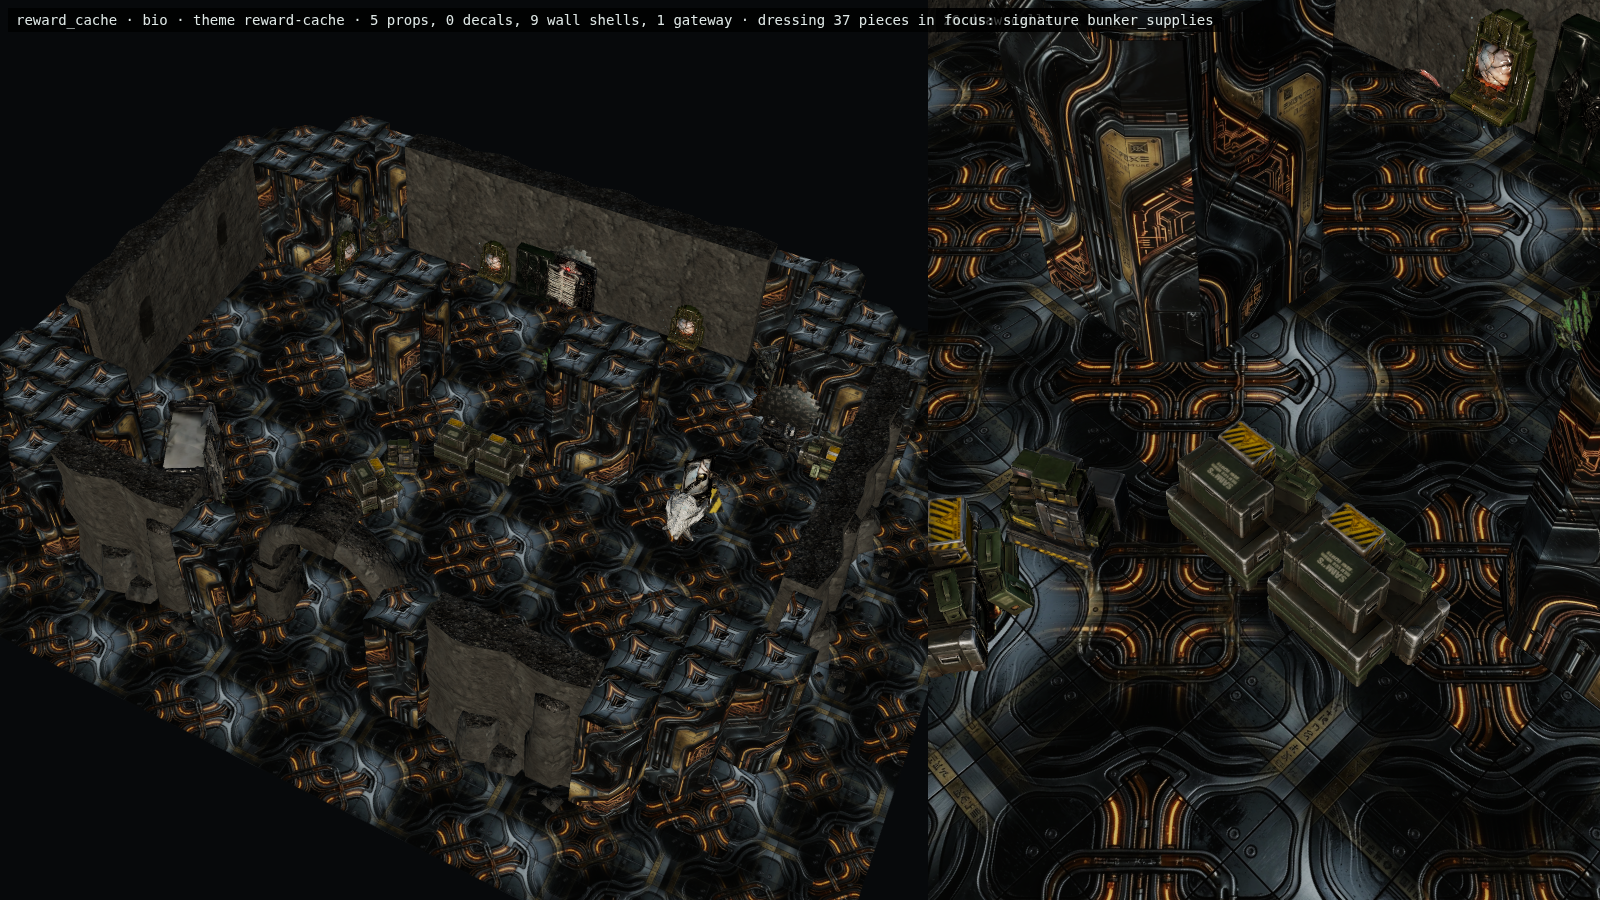
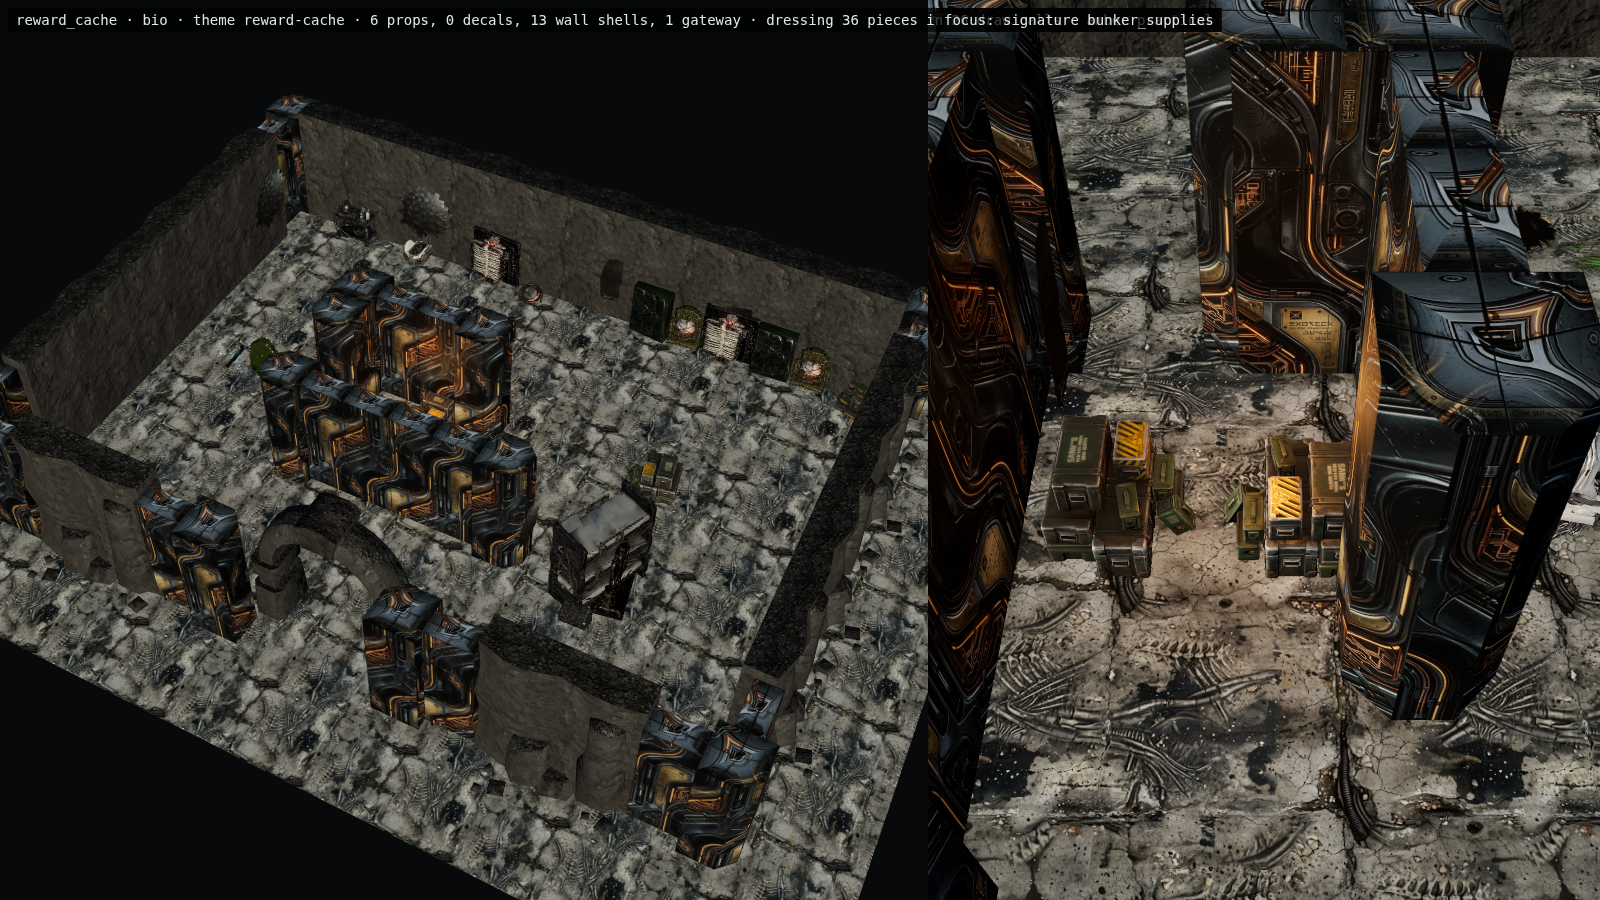
feat(levels): screen the reward cache behind a broken C so it is revealed by a turn
Lane A P2, third proof (work by the Codex lane, left uncommitted when it
ran out of credits; reviewed and committed as it stood). reward_cache is
rebuilt around a broken C-shaped screen: the cache is hidden from the
south threshold, reached by two unequal permanent approaches, and owns a
restrained amber practical, with a quiet provenance-log alcove on the west
route. Authored supply/ammo/locker anchors no longer get a redundant
generic ammo pile. Four gameplay-camera captures and exact two-route tests;
both N64 design docs updated, including what remains controller work
(opening animation, payout and light sync, persistent emptied state).

diff --git a/src/data/roomBuilds.js b/src/data/roomBuilds.js
@@ -384,15 +384,21 @@ export const ROOM_BUILD_CATALOG = Object.freeze([
         family: 'cache',
         themeStyle: 'reliquary',
         partitionThickness: 0.5,
-        // The reward vault is a floor-standing interactive prop framed by
-        // sanctuary plinths and corner chamfers.
-        pattern: rectRoomPattern(15, 11, [
-            { x: 0, y: 0, w: 2, h: 2 },
-            { x: 13, y: 0, w: 2, h: 2 },
-            { x: 0, y: 9, w: 2, h: 2 },
-            { x: 13, y: 9, w: 2, h: 2 },
-            { x: 4, y: 3, w: 2, h: 2 },
-            { x: 9, y: 3, w: 2, h: 2 }
+        // P2 reward-space proof: a broken C-shaped screen blocks the cache
+        // body from the south entry while leaving distinct east and west
+        // approaches. The reward appears only after a lateral turn.
+        pattern: authoredRoomPattern([
+            '...............',
+            '...............',
+            '...............',
+            '...............',
+            '....####.......',
+            '....#..........',
+            '...............',
+            '....######.....',
+            '...............',
+            '...............',
+            '...............'
         ]),
         sockets: [{ id: 'entry', side: 's', width: 3, required: true }],
         rotationPolicy: 'cardinal',
@@ -400,15 +406,23 @@ export const ROOM_BUILD_CATALOG = Object.freeze([
         biomeEligibility: ['active', 'cryo', 'bio'],
         roles: ['reward'],
         structuralAnchors: [],
-        interactionAnchors: [{ id: 'reward_vault', type: 'prop_bunker_supplies', x: 7, y: 5 }],
+        interactionAnchors: [{ id: 'reward_vault', type: 'prop_bunker_supplies', x: 6, y: 5 }],
         signatureAnchorId: 'reward_vault',
         compassAnchors: { approach: 'entry', objective: 'reward_vault' },
-        coverZones: [{ x: 4, y: 3, w: 2, h: 2 }, { x: 9, y: 3, w: 2, h: 2 }],
+        coverZones: [
+            { x: 4, y: 4, w: 4, h: 1 },
+            { x: 4, y: 4, w: 1, h: 2 },
+            { x: 4, y: 7, w: 6, h: 1 }
+        ],
         encounterZones: [],
-        rewardAnchors: [{ id: 'reward_vault', type: 'prop_bunker_supplies', x: 7, y: 5 }],
-        loreAnchors: [],
+        rewardAnchors: [{ id: 'reward_vault', type: 'prop_bunker_supplies', x: 6, y: 5 }],
+        loreAnchors: [{ id: 'cache_provenance_log', type: 'lore_terminal', x: 2, y: 5 }],
         hazardZones: [],
-        quietZones: [{ x: 0, y: 0, w: 15, h: 11 }],
+        quietZones: [
+            { x: 4, y: 8, w: 7, h: 3 },
+            { x: 5, y: 4, w: 4, h: 3 },
+            { x: 1, y: 4, w: 3, h: 3 }
+        ],
         safeZone: true,
         containmentBounds: { minX: 0, minY: 0, maxX: 14, maxY: 10 },
         presentationVariants: ['locked', 'unlocked', 'emptied'],

diff --git a/src/roomBuilds.test.js b/src/roomBuilds.test.js
@@ -291,6 +291,38 @@ describe('ROOM_BUILD_CATALOG', () => {
         expect(build.quietZones[1]).toMatchObject({ x: 0, y: 3, w: 4, h: 6 });
     });
 
+    it('turns the reward cache into a screened two-route reveal', () => {
+        const build = ROOM_BUILD_CATALOG.find((entry) => entry.id === 'reward_cache');
+        expect(build.pattern).toEqual([
+            '...............',
+            '...............',
+            '...............',
+            '...............',
+            '....####.......',
+            '....#..........',
+            '...............',
+            '....######.....',
+            '...............',
+            '...............',
+            '...............'
+        ]);
+        const approach = computeApproachPoint(build);
+        const vault = { x: 6, y: 5 };
+        const westScreen = new Set(['0,7', '1,7', '2,7', '3,7']);
+        const eastScreen = new Set(['10,7', '11,7', '12,7', '13,7', '14,7']);
+        expect(approach).toEqual({ x: 7, y: 8 });
+        expect(build.pattern[7][approach.x]).toBe('#');
+        expect(shortestPatternPath(build.pattern, approach, vault, westScreen)).toBeLessThan(Infinity);
+        expect(shortestPatternPath(build.pattern, approach, vault, eastScreen)).toBeLessThan(Infinity);
+        expect(shortestPatternPath(build.pattern, approach, vault)).toBeGreaterThan(
+            Math.abs(approach.x - vault.x) + Math.abs(approach.y - vault.y)
+        );
+        expect(build.interactionAnchors[0]).toMatchObject({ id: 'reward_vault', x: 6, y: 5 });
+        expect(build.rewardAnchors[0]).toMatchObject({ id: 'reward_vault', x: 6, y: 5 });
+        expect(build.loreAnchors[0]).toMatchObject({ id: 'cache_provenance_log', x: 2, y: 5 });
+        expect(shortestPatternPath(build.pattern, vault, { x: 2, y: 5 })).toBeLessThan(Infinity);
+    });
+
     it.each(ROOM_BUILD_CATALOG.map((build) => [build.id, build]))('%s is internally valid', (_, build) => {
         expect(validateRoomBuild(build)).toEqual([]);
     });

diff --git a/src/roomPopulation.test.js b/src/roomPopulation.test.js
@@ -318,6 +318,25 @@ describe('room population', () => {
         }
     });
 
+    it('does not duplicate an authored supply vault with a generic ammo cache', () => {
+        const grid = Array.from({ length: 7 }, () => Array(9).fill('.'));
+        const room = {
+            id: 'authored-reward',
+            role: 'reward',
+            interior: Array.from({ length: 7 }, (_, index) => ({ x: index + 1, y: 3 })),
+            navigation: { doorLanes: [] },
+            interactionAnchors: [{ id: 'reward_vault', type: 'prop_bunker_supplies', x: 4, y: 3 }],
+            signatureAnchorId: 'reward_vault',
+            populationBudget: { signature: 1, large: 0, small: 0, pickup: 0, enemy: 0 },
+            themeConfig: { signatureProps: ['prop_bunker_supplies'] }
+        };
+        const plan = planRoomPopulation(room, grid, () => 0);
+        expect(plan.placements.filter((placement) => placement.type === 'prop_bunker_supplies')).toEqual([
+            expect.objectContaining({ anchorId: 'reward_vault', kind: 'signature', x: 4, y: 3 })
+        ]);
+        expect(plan.placements.some((placement) => placement.kind === 'ammo-cache')).toBe(false);
+    });
+
     it('restricts wall-backed props (altars, cradles) to cells adjacent to walls with wallNormal', () => {
         const room = {
             id: 'altar-room',

diff --git a/tests/e2e/probes/p2-reward-cache-gameplay-camera.spec.js b/tests/e2e/probes/p2-reward-cache-gameplay-camera.spec.js
@@ -1,0 +1,20 @@
+import { test, expect } from '@playwright/test';
+
+// P2 reward-space proof: the entry screen must conceal the cache body while
+// both approaches, the reward apse and optional lore alcove remain legible in
+// every cardinal camera rotation.
+for (let rotation = 0; rotation < 4; rotation += 1) {
+    test(`P2 reward cache game camera — R${rotation}`, async ({ page }) => {
+        await page.setViewportSize({ width: 1600, height: 900 });
+        await page.goto(`/tests/e2e/fixtures/furnished-room-showroom.html?build=reward_cache&biome=active&review=gameplay&rotation=${rotation}`);
+        await page.waitForFunction(() => window.__showroom?.ready === true, null, { timeout: 90_000 });
+        const result = await page.evaluate(() => window.__showroom);
+        expect(result.reviewMode).toBe(true);
+        expect(result.rotation).toBe(rotation);
+        expect(result.cutawayCells).toBeGreaterThan(0);
+        expect(result.props + result.decals).toBeGreaterThan(0);
+        await page.screenshot({
+            path: `docs/reports/assets/furnished-rooms/p2-reward_cache-game-camera-r${rotation}.png`
+        });
+    });
+}

diff --git a/src/anchorPracticalLight.js b/src/anchorPracticalLight.js
@@ -21,7 +21,7 @@ export const ANCHOR_LIGHT_PALETTE = Object.freeze({
 const PALETTE_RULES = Object.freeze([
     { palette: 'cyan', match: /oxygen|coolant|cryo|o2_|frost|icey|thermal|water_still|medical_bed|tesla_coil|fabricator|cyber_junction/ },
     { palette: 'warning', match: /false_cache|laser_trap|trap_emitter/ },
-    { palette: 'amber', match: /lectern|votive|shrine|reliquary|saint|liturgical|candle|barrel_heater|flood_lamp|pheromone_censer|scent_distiller|warmth_hearth|checkpoint_post|wayfinding_totem|seismic_drill|devotion_tree|meat_smoking_rack|pipe_organ_heat_exchanger|ammo_crate/ },
+    { palette: 'amber', match: /reward_vault|lectern|votive|shrine|reliquary|saint|liturgical|candle|barrel_heater|flood_lamp|pheromone_censer|scent_distiller|warmth_hearth|checkpoint_post|wayfinding_totem|seismic_drill|devotion_tree|meat_smoking_rack|pipe_organ_heat_exchanger|ammo_crate/ },
     { palette: 'green', match: /biomech|spore|fungal|hive|flesh|umbilical|alien|incubator|mycelium/ }
 ]);
 

diff --git a/src/roomPopulation.js b/src/roomPopulation.js
@@ -393,8 +393,12 @@ export function planRoomPopulation(room, grid, random, { grounding = true, areaB
         if (budget.signature > 0 && !hasAuthoredSignature) {
             reservePlacement('signature', propFrom(theme.signatureProps, random, 'prop_bunker_supplies', { placements, recentModels }), true);
         }
+        const hasAuthoredSupplyCache = placements.some((placement) => (
+            placement.anchorId
+            && /supplies|ammo_crate|locker/.test(String(placement.type ?? ''))
+        ));
         if (['reward', 'storage', 'security'].includes(room.role)) {
-            reservePlacement('ammo-cache', 'prop_bunker_supplies', true);
+            if (!hasAuthoredSupplyCache) reservePlacement('ammo-cache', 'prop_bunker_supplies', true);
         } else if (budget.large.min > 0 && theme.largeProps?.length) {
             reservePlacement('large', propFrom(theme.largeProps, random, 'prop_conduit_hub', { placements, recentModels }), true);
         }

diff --git a/src/anchorPracticalLight.test.js b/src/anchorPracticalLight.test.js
@@ -16,6 +16,7 @@ describe('anchor practical light (lived-in world M4)', () => {
         expect(anchorPaletteFor('prop_cyber_junction')).toBe('cyan');
         expect(anchorPaletteFor('false_cache prop_bunker_supplies')).toBe('warning');
         expect(anchorPaletteFor('prop_laser_trap_emitter')).toBe('warning');
+        expect(anchorPaletteFor('reward_vault prop_bunker_supplies')).toBe('amber');
         expect(anchorPaletteFor('prop_pipe_organ_heat_exchanger')).toBe('amber');
         expect(anchorPaletteFor('prop_ammo_crate_stack')).toBe('amber');
         expect(anchorPaletteFor('life_barrel_heater')).toBe('amber');

diff --git a/docs/planning/n64-architectural-level-design-overhaul-2026-10-10.md b/docs/planning/n64-architectural-level-design-overhaul-2026-10-10.md
@@ -740,10 +740,32 @@ Capability correction: this is spatial and presentation scaffolding, not a funct
 The false cache is still a normal supplies interaction, `trap_trigger` affects enemy placement only,
 the spore-vent hazard has no room-level damage consumer, and the payoff is available immediately.
 A future local controller must own arming, beam timing, warning lights/audio, disarm/reset, and
-reward locking. Animation and VFX remain bounded and non-colliding; neither route may close. Next
-P2 candidate: `reward_cache`.
+reward locking. Animation and VFX remain bounded and non-colliding; neither route may close.
 
-### 9.6.4 Authored-geometry persistence gate
+### 9.6.4 Lane A P2: screened reward apse
+
+`reward_cache` is the third P2 spatial proof. A broken C-shaped screen hides the reward body from
+the south threshold and creates a compact antechamber, two unequal approaches, a reward apse, and a
+western provenance-log alcove. Both openings remain permanently traversable. The cache is revealed
+only after a lateral turn and owns a restrained amber practical; the lore terminal is the dimmer
+secondary pull. Exact-pattern tests force each route independently and prove the unobstructed
+shortest path is longer than the direct Manhattan line. Four gameplay-camera/cutaway captures live
+at `docs/reports/assets/furnished-rooms/p2-reward_cache-game-camera-r*.png`.
+
+The population planner now suppresses its generic ammo-cache fallback only when an authored
+supplies, ammo-crate, or locker anchor already exists. This removes the duplicate crate pile that
+competed with the hero cache while preserving the loot guarantee in un-authored reward, storage,
+and security rooms.
+
+Capability correction: the room's locked/unlocked/emptied variants are not yet driven states. The
+interaction and reward records share a cell and render once, but no controller currently binds lid
+animation, payout, practical-light change, and persistent emptied state. `rewardCache.js` owns a
+separate high-stakes cache at its own coordinates; its O₂ siphon, defender wave, and lockdown must
+not be claimed here until the systems are deliberately bridged. A local future controller may
+animate and dim the prop without changing walls or routes. Next flat P2 candidate:
+`reactor_vent_station`; `ring_crossing_landmark` remains a detached progression proof.
+
+### 9.6.5 Authored-geometry persistence gate
 
 The existing `ROOM_BUILD_VERSION` is only exported; it is not serialized or compared. Neither
 campaign `interiorVersion`, macro `layoutVersion`, nor `WORLD_PLAN_VERSION` pins room-pattern data.
@@ -1109,6 +1131,11 @@ chunk mounts.
   payoff. Exact route and four-camera proofs pass. The showroom now previews the same stained-
   concrete surface family selected by the live security theme; trap firing, damage, and reward
   locking remain future controller work.
+- 2026-10-11: Lane A rebuilt the reward cache around a broken C-screen. Both approaches now turn
+  into a single amber-lit reward apse, with a quiet provenance-log alcove on the west route. Exact
+  two-route and four-camera proofs pass, and authored supply caches no longer receive a redundant
+  generic ammo pile. Opening animation, payout/light synchronization, and persistent emptied state
+  remain future controller work.
 - 2026-10-10: Round 2 done (`1b0fce7c`): chasm landmarks plus tactical-map glyphs. Criteria 1,
   3, 4 and 5 met; criterion 2 not met as written, with the reason and the map-based answer in
   §9.10.

diff --git a/docs/planning/world-design-doctrine-n64-lessons-2026-10-10.md b/docs/planning/world-design-doctrine-n64-lessons-2026-10-10.md
@@ -38,8 +38,8 @@ waiting for decoration.
 
 At the start of this audit, all 12 original authored builds used
 `rectRoomPattern(width, height, obstructions)`. It fills a complete rectangle and can only add
-rectangular wall islands. `power_puzzle` and `trap_vault` have since become P2 authored-pattern
-proofs; `reward_cache` remains the unobstructed original. The cathedral builds remain
+rectangular wall islands. `power_puzzle`, `trap_vault`, and `reward_cache` have since become P2
+authored-pattern proofs. The cathedral builds remain
 rectilinear cell fields assembled from rectangular stamps; some chamfer corners or add divider
 walls, but they do not encode height and most retain box-dominant massing.
 
@@ -591,7 +591,29 @@ generic searchable supplies interaction; `trap_trigger` only constrains encounte
 `spore_vent` is metadata with no room-hazard damage consumer; and `trap_payoff` is not locked. A
 future local controller must arm the emitters, fire and time their beams, change lights/audio,
 disable or reset safely, and gate the payoff. Those states may animate meshes and VFX but must not
-change walls or close either route. The next P2 candidate is `reward_cache`.
+change walls or close either route.
+
+`reward_cache` is the third P2 spatial proof. A broken C-shaped screen divides the compact room
+into a south anticipation chamber, a reward apse, and a quiet western lore alcove. The south entry
+looks into the screen rather than directly at the supplies: players can wrap either end, turn once,
+and reveal `reward_vault` under a restrained amber practical. The provenance terminal rewards the
+quieter west approach. Tests pin the exact screen, prove both routes independently by blocking the
+opposite opening, prove that the shortest route must turn rather than follow the direct Manhattan
+line, and preserve access between reward and lore. Four gameplay-camera/cutaway captures live at
+`docs/reports/assets/furnished-rooms/p2-reward_cache-game-camera-r*.png`.
+
+The population planner no longer adds a redundant generic ammo cache when an authored supplies,
+ammo-crate, or locker anchor already owns the room; un-authored reward, storage, and security rooms
+retain their guaranteed fallback. This keeps the authored vault singular without reducing the
+general loot guarantee.
+
+Capability correction: `locked`, `unlocked`, and `emptied` are presentation labels, not a working
+container-state controller. The colocated interaction and reward records produce one visible prop,
+but there is no proven synchronization among opening animation, reward claim, light state, and
+persistent emptied state. The separate high-stakes cache system in `rewardCache.js` is not wired to
+this room anchor. A future local controller may open or dim the cache and persist collection, but
+must not alter the C-screen or close either return route. The next flat P2 candidate is
+`reactor_vent_station`; the ring crossing remains a detached progression-integration proof.
 
 ## Greybox process
 
